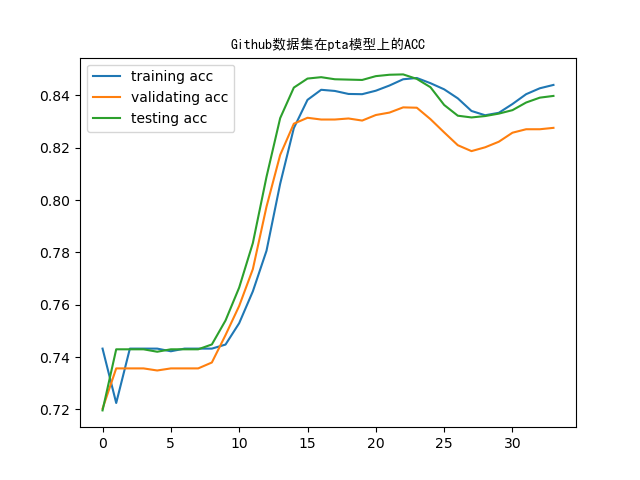
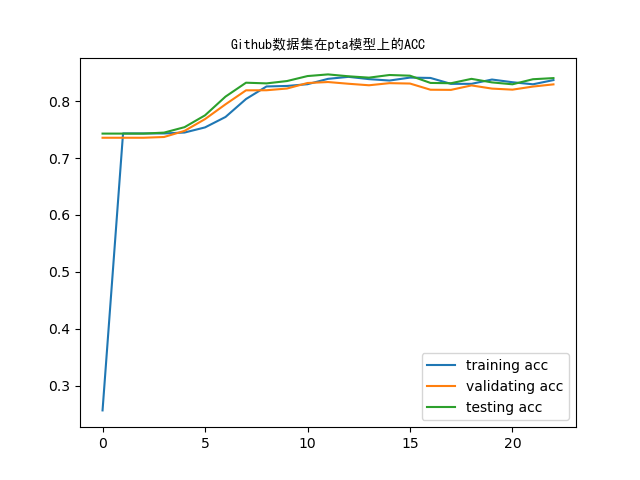
运行PTA模型在所有数据集上的结果（有向图，使用ACC作为早停标准）（还没有跑完，先提交这个配置）

diff --git a/run_example1.py b/run_example1.py
@@ -5,6 +5,10 @@ from initial_params import InitialParameters
 
 import random
 
+import datetime
+
+starttime = datetime.datetime.now()
+
 cuda_index=0
 
 learning_rate=0.01
@@ -18,13 +22,13 @@ seeds=[random.randint(0,100000000) for i in range(seed_number)]
 #"""
 file_handle=open('whj_code2/integration_experiment/run_example1_output.out',
                 mode='a')  #追加
-file_handle.write('又双叒叕改了遍GraphSAGE的代码，看看结果-有向图转无向图:\n')
+file_handle.write('改用ACC作为早停标准，有向图:\n')
 #"""
 
-for dn in [0,2,3,6,11]:  #遍历数据集（13个），其中有向图为[0,2,3,6,11] github, elliptic, film, wiki, alpha
+for dn in range(13):  #遍历数据集（13个），其中有向图为[0,2,3,6,11] github, elliptic, film, wiki, alpha
     d=InitialParameters.dataset_name_root_map[dn]
     file_handle.write(d['dataset_name'])
-    for i in [2]:  #遍历模型
+    for i in range(8):  #遍历模型（8个）
         #print(d)
         #print(i)
         #上述两个主要可用于监测可能发生的在某一步报bug（比如GPU被挤出去了（help me））
@@ -34,11 +38,13 @@ for dn in [0,2,3,6,11]:  #遍历数据集（13个），其中有向图为[0,2,3,
                 acc_dict=experiment(model_init_param=InitialParameters.default_init_params[i],
                                     dataset_split_seed=seed,
                                     model_name=InitialParameters.model_names[i],
-                                    to_undirected_graph=True,
+                                    to_undirected_graph=False,
                                     learning_rate=learning_rate,epoch=epoch,
                                     pics_root='whj_code2/integration_experiment/pics/di',
                                     print_pics=False,pics_name='di_'+d['dataset_name']+InitialParameters.model_names[i]+'.png',
                                     vis_feat=False,feat_pic_names_prefix='di_'+d['dataset_name']+InitialParameters.model_names[i],
+                                    early_stopping_criterion='acc',
+                                    need_all_metrics=False,
                                     cuda_index=cuda_index,**d)
                 acc_list.append(acc_dict['ACC'])
             file_handle.write('\t'+str(round(sum(acc_list)/seed_number,3)))
@@ -47,20 +53,25 @@ for dn in [0,2,3,6,11]:  #遍历数据集（13个），其中有向图为[0,2,3,
             #pass
     
     #MLP+C&S
-    """
+    #"""
     acc_list=[]
     for seed in seeds:  #遍历seed_number个数据集划分
         acc_dict=experiment(model_init_param={'num_layers':3,'hidden_unit':64,'dropout_rate':0.5},
                             dataset_split_seed=seed,
                             model_name='MLP',
-                            to_undirected_graph=True,
+                            to_undirected_graph=False,
                             learning_rate=learning_rate,epoch=epoch,
                             post_cs=True,cs_param=InitialParameters.default_cs_param,
+                            early_stopping_criterion='acc',
+                            need_all_metrics=False,
                             cuda_index=cuda_index,**d)
         acc_list.append(acc_dict['ACC'])
     file_handle.write('\t'+str(round(sum(acc_list)/seed_number,3)))
-    """
+    #"""
 
     file_handle.write('\n')
         
 file_handle.close()
+
+endtime = datetime.datetime.now()
+print((endtime - starttime).seconds)

diff --git a/initial_params.py b/initial_params.py
@@ -21,15 +21,16 @@ class InitialParameters:
                             {'dataset_name':'Weibo','dataset_root':default_data_path}]
 
     #注意以下两个参数之间是要一一对应的，之所以没合一起主要是因为那样就太长了
-    model_names=['MLP','GCN','GraphSAGE','GAT','GGNN','APPNPStack','GraphSAGE2']
+    model_names=['MLP','GCN','GraphSAGE','GAT','GGNN','APPNPStack','GraphSAGE2','PTA']
     default_init_params=[{'num_layers': 3, 'hidden_unit': 64, 'dropout_rate': 0.5},
                         {'num_layers': 2, 'hidden_unit': 64, 'dropout_rate': 0.5},
                         {'num_layers': 2, 'hidden_unit': 64, 'dropout_rate': 0.5},
                         {'num_layers': 2, 'hidden_unit': 8, 'dropout_rate': 0.5, 'heads': 8},
                         {'num_layers': 2, 'hidden_unit': 64, 'dropout_rate': 0.5},
                         {'hidden_unit': 64, 'dropout_rate': 0.5, 'alpha': 0.1, 'K': 10},
-                        {'num_layers': 2, 'hidden_unit': 64, 'dropout_rate': 0.5}]
-    #APPNP的α和K都是原论文的设置
+                        {'num_layers': 2, 'hidden_unit': 64, 'dropout_rate': 0.5},
+                        {'nhid':64,'dropout':0,'epsilon':100,'mode':2,'K':10,'alpha':0.1}]
+    #APPNP的α和K都是原论文的设置，PTA的参数都来自原论文的GitHub项目
 
     default_cs_param={'num_correction_layers': 50, 'correction_alpha': 0.8, 'num_smoothing_layers': 50, 'smoothing_alpha': 0.8, 'autoscale': True}
     #参数参考自：

diff --git a/itexperiments.py b/itexperiments.py
@@ -326,7 +326,7 @@ def experiment(model_init_param:dict,
         pred = y_soft[test_mask]
         label = y[test_mask]
 
-        metric_result=compare_pred_label(pred,label)
+        metric_result=compare_pred_label(pred,label,need_all_metrics)
     
     if print_pics:
         font = FontProperties(fname=InitialParameters.simhei_ttf_path)
